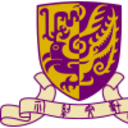
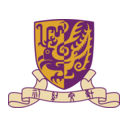
add

diff --git a/_sass/layout/_page.scss b/_sass/layout/_page.scss
@@ -198,10 +198,15 @@
 
 .timeline-entry {
   display: flex;
-  align-items: center;
-  justify-content: space-between;
-  gap: 1em;
+  align-items: flex-start;
+  justify-content: flex-start;
+  gap: 0.8em;
   min-width: 0;
+}
+
+.timeline-entry__content {
+  min-width: 0;
+  padding-top: 0.15em;
 }
 
 .institution-logo-group {
@@ -214,12 +219,9 @@
 .institution-logo {
   display: block;
   flex: 0 0 auto;
-  width: 38px;
-  height: 38px;
-  padding: 2px;
-  border: 1px solid var(--global-border-color);
-  border-radius: 7px;
-  background: #fff;
+  width: 42px;
+  height: 42px;
+  padding: 0;
   object-fit: contain;
 }
 

diff --git a/_pages/about.md b/_pages/about.md
@@ -37,18 +37,18 @@ My research interests lie at the intersection of AI and Biology, with a particul
 
 ## <i class="fas fa-graduation-cap section-icon" aria-hidden="true"></i> Education
 <ul class="timeline-list">
-  <li><time>2025.06 – Present</time><span class="timeline-entry"><span><strong>PhD</strong>, University of New South Wales (UNSW)</span><img class="institution-logo" src="{{ base_path }}/images/education/unsw-crest.png" alt="UNSW crest"></span></li>
-  <li><time>2020.09 – 2023.06</time><span class="timeline-entry"><span><strong>MPhil</strong>, Harbin Institute of Technology (HIT)</span><img class="institution-logo" src="{{ base_path }}/images/education/hit-crest.png" alt="Harbin Institute of Technology crest"></span></li>
-  <li><time>2016.09 – 2020.06</time><span class="timeline-entry"><span><strong>BSc</strong>, Jilin Agricultural University (JLAU)</span><img class="institution-logo" src="{{ base_path }}/images/education/jlau-crest.png" alt="Jilin Agricultural University crest"></span></li>
+  <li><time>2025.06 – Present</time><span class="timeline-entry"><img class="institution-logo" src="{{ base_path }}/images/education/unsw-crest.png" alt="UNSW crest"><span class="timeline-entry__content"><strong>PhD</strong>, University of New South Wales (UNSW)</span></span></li>
+  <li><time>2020.09 – 2023.06</time><span class="timeline-entry"><img class="institution-logo" src="{{ base_path }}/images/education/hit-crest.png" alt="Harbin Institute of Technology crest"><span class="timeline-entry__content"><strong>MPhil</strong>, Harbin Institute of Technology (HIT)</span></span></li>
+  <li><time>2016.09 – 2020.06</time><span class="timeline-entry"><img class="institution-logo" src="{{ base_path }}/images/education/jlau-crest.png" alt="Jilin Agricultural University crest"><span class="timeline-entry__content"><strong>BSc</strong>, Jilin Agricultural University (JLAU)</span></span></li>
 </ul>
 
 ## <i class="fas fa-briefcase section-icon" aria-hidden="true"></i> Professional Experience
 <ul class="timeline-list">
-  <li><time>2026.06 – Present</time><span class="timeline-entry"><span><strong>Research Intern</strong> <span class="employment-badge employment-badge--intern">Internship</span>, Shanghai AI Laboratory and Fudan University</span><span class="institution-logo-group"><img class="institution-logo" src="{{ base_path }}/images/education/shlab-logo.png" alt="Shanghai AI Laboratory logo"><img class="institution-logo" src="{{ base_path }}/images/education/fudan-crest.png" alt="Fudan University crest"></span></span></li>
-  <li><time>2025.05 – 2026.04</time><span class="timeline-entry"><span><strong>Researcher</strong> <span class="employment-badge employment-badge--full-time">Full-time</span>, UNSW Microbiome Research Center</span><img class="institution-logo" src="{{ base_path }}/images/education/unsw-crest.png" alt="UNSW crest"></span></li>
-  <li><time>2024.01 – 2025.05</time><span class="timeline-entry"><span><strong>Research Assistant</strong> <span class="employment-badge employment-badge--full-time">Full-time</span>, CAIRI and EMBLab, Westlake University</span><img class="institution-logo" src="{{ base_path }}/images/education/westlake-crest.png" alt="Westlake University crest"></span></li>
-  <li><time>2022.12 – 2023.08</time><span class="timeline-entry"><span><strong>Research Intern</strong> <span class="employment-badge employment-badge--intern">Internship</span>, AI for Healthcare Group, Chinese University of Hong Kong</span><img class="institution-logo" src="{{ base_path }}/images/education/cuhk-crest.png" alt="Chinese University of Hong Kong crest"></span></li>
-  <li><time>2021.04 – 2022.04</time><span class="timeline-entry"><span><strong>Visiting Student</strong> <span class="employment-badge employment-badge--visiting">Visiting</span>, Southern University of Science and Technology</span><img class="institution-logo" src="{{ base_path }}/images/education/sustech-crest.png" alt="Southern University of Science and Technology crest"></span></li>
+  <li><time>2026.06 – Present</time><span class="timeline-entry"><span class="institution-logo-group"><img class="institution-logo" src="{{ base_path }}/images/education/shlab-logo.png" alt="Shanghai AI Laboratory logo"><img class="institution-logo" src="{{ base_path }}/images/education/fudan-crest.png" alt="Fudan University crest"></span><span class="timeline-entry__content"><strong>Research Intern</strong> <span class="employment-badge employment-badge--intern">Internship</span>, Shanghai AI Laboratory and Fudan University</span></span></li>
+  <li><time>2025.05 – 2026.04</time><span class="timeline-entry"><img class="institution-logo" src="{{ base_path }}/images/education/unsw-crest.png" alt="UNSW crest"><span class="timeline-entry__content"><strong>Researcher</strong> <span class="employment-badge employment-badge--full-time">Full-time</span>, UNSW Microbiome Research Center</span></span></li>
+  <li><time>2024.01 – 2025.05</time><span class="timeline-entry"><img class="institution-logo" src="{{ base_path }}/images/education/westlake-crest.png" alt="Westlake University crest"><span class="timeline-entry__content"><strong>Research Assistant</strong> <span class="employment-badge employment-badge--full-time">Full-time</span>, CAIRI and EMBLab, Westlake University</span></span></li>
+  <li><time>2022.12 – 2023.08</time><span class="timeline-entry"><img class="institution-logo" src="{{ base_path }}/images/education/cuhk-crest.png" alt="Chinese University of Hong Kong crest"><span class="timeline-entry__content"><strong>Research Intern</strong> <span class="employment-badge employment-badge--intern">Internship</span>, AI for Healthcare Group, Chinese University of Hong Kong</span></span></li>
+  <li><time>2021.04 – 2022.04</time><span class="timeline-entry"><img class="institution-logo" src="{{ base_path }}/images/education/sustech-crest.png" alt="Southern University of Science and Technology crest"><span class="timeline-entry__content"><strong>Visiting Student</strong> <span class="employment-badge employment-badge--visiting">Visiting</span>, Southern University of Science and Technology</span></span></li>
 </ul>
 
 ## <i class="fas fa-file-lines section-icon" aria-hidden="true"></i> Selected Publications

diff --git a/images/education/ATTRIBUTION.md b/images/education/ATTRIBUTION.md
@@ -1,6 +1,6 @@
 # Institutional-mark attribution
 
-The small institutional marks on the Education and Professional Experience timeline are reproduced solely to identify the corresponding institutions on this personal academic website. All marks remain the property of their respective institutions.
+The small institutional marks on the Education and Professional Experience timeline are reproduced solely to identify the corresponding institutions on this personal academic website. All marks remain the property of their respective institutions. The display-ready versions were prepared from image files supplied by the site owner on 2026-09-09.
 
 Sources retrieved on 2026-09-09:
 
